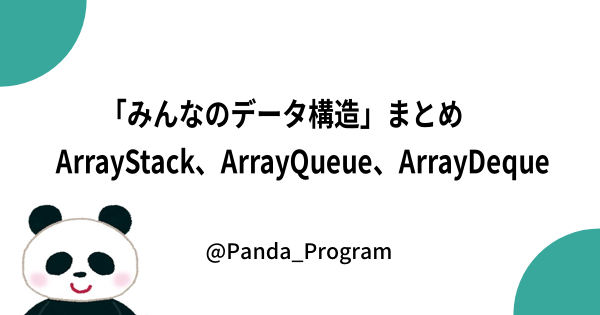
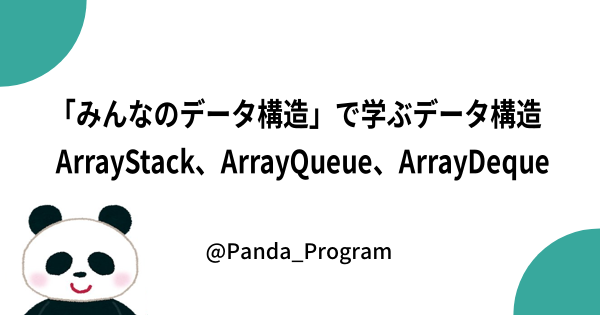
タイトルを変更

Changed region(s): [[0.09, 0.3143, 0.9, 0.4286]]

diff --git a/content/posts/2020/08/2020-08-06.md b/content/posts/2020/08/2020-08-06.md
@@ -1,5 +1,5 @@
 ---
-title: "「みんなのデータ構造」まとめ 〜 ArrayStack、ArrayQueue、ArrayDeque 〜"
+title: "「みんなのデータ構造」で学ぶデータ構造 〜 ArrayStack、ArrayQueue、ArrayDeque 〜"
 date: "2020-08-06T00:40:25.000Z"
 updatedAt: ""
 template: "post"
